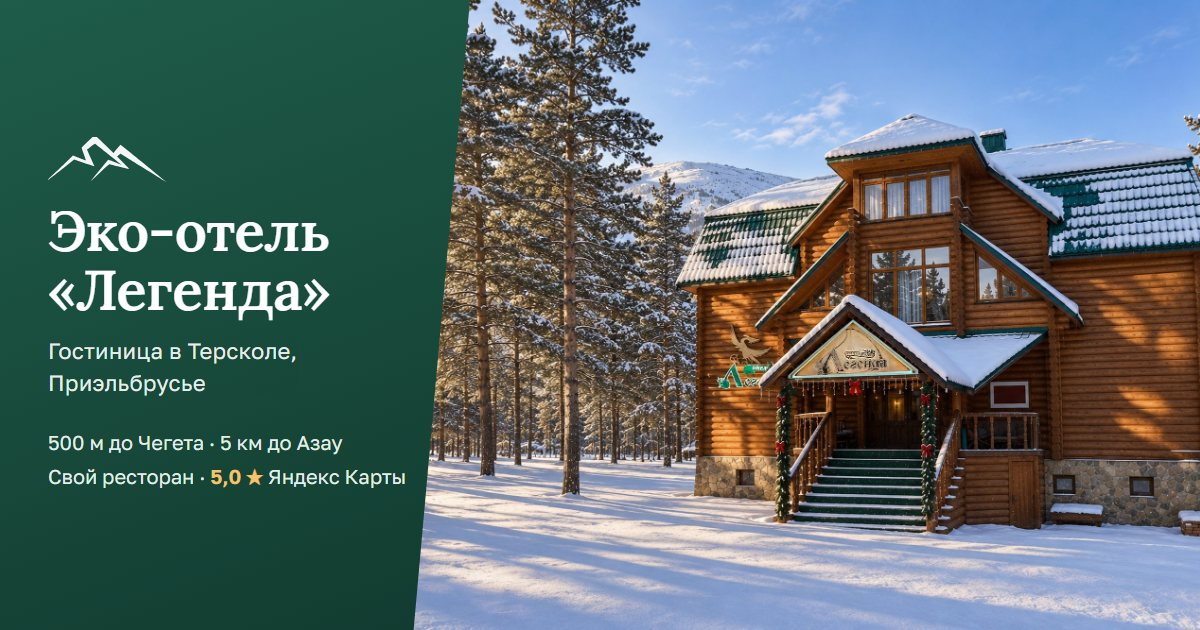
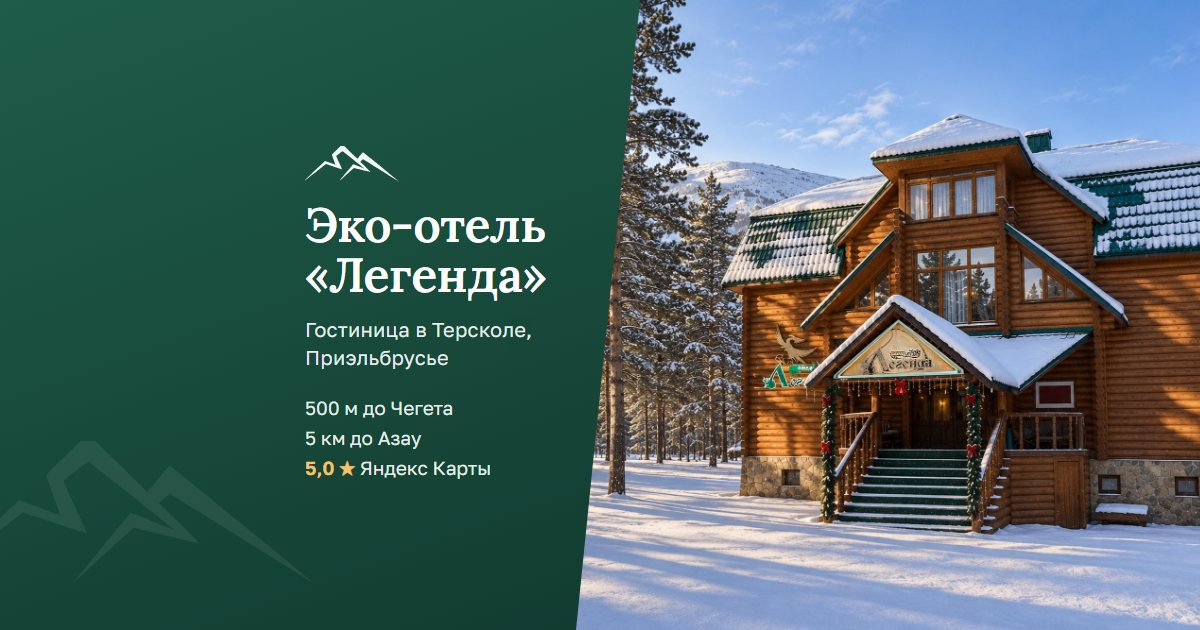
Превью ссылки: название и дом в середине картинки — квадратная миниатюра мессенджера показывает их целиком

diff --git a/tools/og.html b/tools/og.html
@@ -12,14 +12,17 @@ h1{font:600 64px/1.05 Lora;margin:0;letter-spacing:-.5px;text-shadow:0 2px 18px 
 .row{display:flex;gap:10px;justify-content:center;margin-top:20px}
 .row span{padding:9px 18px;border-radius:999px;background:rgba(255,255,255,.16);box-shadow:inset 0 0 0 1px rgba(255,255,255,.28);font-size:21px;font-weight:500;backdrop-filter:blur(8px)}
 .row b{color:#F6C26B}
-.b img.bg{left:380px;width:820px}
-.b .p{position:absolute;left:0;top:0;bottom:0;width:470px;background:linear-gradient(160deg,#1F5C4A,#123B30);padding:56px 48px;display:flex;flex-direction:column;justify-content:center;clip-path:polygon(0 0,100% 0,88% 100%,0 100%)}
-.b .mk{color:#fff;opacity:.95;margin-bottom:18px}
-.b h1{font-size:56px;text-shadow:none}
-.b .k{margin:16px 0 0;font-size:22px;line-height:1.45;opacity:.9}
-.b .li{margin-top:26px;font-size:20px;line-height:1.7;color:#E4EFE9}
+/* в мессенджерах при наборе сообщения видна только середина (квадрат 630×630, x 285–915) — текст и дом укладываются в неё */
+.b img.bg{left:540px;width:660px;object-position:62% 60%}
+.b .p{position:absolute;left:0;top:0;bottom:0;width:640px;background:linear-gradient(160deg,#1F5C4A,#123B30);clip-path:polygon(0 0,100% 0,90% 100%,0 100%)}
+.b .wm{position:absolute;left:-60px;bottom:40px;width:380px;color:#fff;opacity:.07}
+.b .tx{position:absolute;left:305px;top:0;bottom:0;width:260px;display:flex;flex-direction:column;justify-content:center}
+.b .mk{color:#fff;opacity:.95;margin-bottom:16px}
+.b h1{font-size:48px;text-shadow:none}
+.b .k{margin:14px 0 0;font-size:20px;line-height:1.4;opacity:.9}
+.b .li{margin-top:22px;font-size:19px;line-height:1.6;color:#E4EFE9}
 .b .li b{color:#F6C26B;font-weight:600}
 </style></head><body>
-<div class="c b" id="B"><img class="bg" src="../src/facade.jpg"><div class="p"><svg class="mk" width="120" viewBox="229 128.3 474.8 185.7" aria-hidden="true"><g transform="translate(0,698) scale(0.1,-0.1)"><path fill="currentColor" d="M3875 5529 c-143 -138 -259 -256 -257 -262 2 -7 41 -119 88 -250 47 -131 84 -241 81 -243 -2 -3 -118 38 -257 91 l-252 95 -316 -303 c-174 -166 -414 -394 -533 -507 -119 -113 -217 -208 -218 -213 -1 -4 61 41 137 101 75 59 326 256 557 437 l419 328 399 -132 c219 -73 400 -131 403 -129 2 3 -63 150 -146 328 -82 177 -148 326 -145 330 2 4 72 60 154 124 97 75 155 115 163 110 33 -20 1058 -837 1055 -841 -3 -2 -121 44 -263 102 -142 58 -263 104 -269 101 -7 -2 -140 -161 -297 -353 -157 -191 -317 -387 -357 -435 -40 -49 -70 -88 -68 -88 3 0 172 157 378 349 205 192 377 347 383 345 32 -10 799 -194 809 -193 7 0 -103 112 -243 250 l-255 250 65 60 c36 32 70 57 77 55 6 -3 407 -252 890 -554 959 -599 915 -572 893 -550 -8 9 -226 188 -485 398 -258 210 -656 534 -883 719 -227 185 -417 337 -421 339 -4 1 -57 -57 -116 -130 -60 -73 -121 -148 -136 -165 l-28 -33 -366 358 c-201 196 -369 358 -373 359 -4 1 -124 -111 -267 -248z"/></g></svg><h1>Эко-отель<br>«Легенда»</h1><p class="k">Гостиница в Терсколе,<br>Приэльбрусье</p>
-<div class="li">500 м до Чегета · 5 км до Азау<br>Свой ресторан · <b>5,0 ★</b> Яндекс Карты</div></div></div>
+<div class="c b" id="B"><img class="bg" src="../src/facade.jpg"><div class="p"><svg class="wm" viewBox="229 128.3 474.8 185.7" aria-hidden="true"><g transform="translate(0,698) scale(0.1,-0.1)"><path fill="currentColor" d="M3875 5529 c-143 -138 -259 -256 -257 -262 2 -7 41 -119 88 -250 47 -131 84 -241 81 -243 -2 -3 -118 38 -257 91 l-252 95 -316 -303 c-174 -166 -414 -394 -533 -507 -119 -113 -217 -208 -218 -213 -1 -4 61 41 137 101 75 59 326 256 557 437 l419 328 399 -132 c219 -73 400 -131 403 -129 2 3 -63 150 -146 328 -82 177 -148 326 -145 330 2 4 72 60 154 124 97 75 155 115 163 110 33 -20 1058 -837 1055 -841 -3 -2 -121 44 -263 102 -142 58 -263 104 -269 101 -7 -2 -140 -161 -297 -353 -157 -191 -317 -387 -357 -435 -40 -49 -70 -88 -68 -88 3 0 172 157 378 349 205 192 377 347 383 345 32 -10 799 -194 809 -193 7 0 -103 112 -243 250 l-255 250 65 60 c36 32 70 57 77 55 6 -3 407 -252 890 -554 959 -599 915 -572 893 -550 -8 9 -226 188 -485 398 -258 210 -656 534 -883 719 -227 185 -417 337 -421 339 -4 1 -57 -57 -116 -130 -60 -73 -121 -148 -136 -165 l-28 -33 -366 358 c-201 196 -369 358 -373 359 -4 1 -124 -111 -267 -248z"/></g></svg><div class="tx"><svg class="mk" width="96" viewBox="229 128.3 474.8 185.7" aria-hidden="true"><g transform="translate(0,698) scale(0.1,-0.1)"><path fill="currentColor" d="M3875 5529 c-143 -138 -259 -256 -257 -262 2 -7 41 -119 88 -250 47 -131 84 -241 81 -243 -2 -3 -118 38 -257 91 l-252 95 -316 -303 c-174 -166 -414 -394 -533 -507 -119 -113 -217 -208 -218 -213 -1 -4 61 41 137 101 75 59 326 256 557 437 l419 328 399 -132 c219 -73 400 -131 403 -129 2 3 -63 150 -146 328 -82 177 -148 326 -145 330 2 4 72 60 154 124 97 75 155 115 163 110 33 -20 1058 -837 1055 -841 -3 -2 -121 44 -263 102 -142 58 -263 104 -269 101 -7 -2 -140 -161 -297 -353 -157 -191 -317 -387 -357 -435 -40 -49 -70 -88 -68 -88 3 0 172 157 378 349 205 192 377 347 383 345 32 -10 799 -194 809 -193 7 0 -103 112 -243 250 l-255 250 65 60 c36 32 70 57 77 55 6 -3 407 -252 890 -554 959 -599 915 -572 893 -550 -8 9 -226 188 -485 398 -258 210 -656 534 -883 719 -227 185 -417 337 -421 339 -4 1 -57 -57 -116 -130 -60 -73 -121 -148 -136 -165 l-28 -33 -366 358 c-201 196 -369 358 -373 359 -4 1 -124 -111 -267 -248z"/></g></svg><h1>Эко-отель<br>«Легенда»</h1><p class="k">Гостиница в Терсколе, Приэльбрусье</p>
+<div class="li">500 м до Чегета<br>5 км до Азау<br><b>5,0 ★</b> Яндекс Карты</div></div></div></div>
 </body></html>

diff --git a/CLAUDE.md b/CLAUDE.md
@@ -75,7 +75,7 @@
 - План, чек-лист запуска и вопросы к владельцу — `docs/SEO.md`. Держать его актуальным.
 - Разметка JSON-LD (тип Hotel) — в конце `src/index.html`. Номера в ней дублируют массив `rooms` — менять вместе. Рейтинг/отзывы в разметку не добавлять.
 - Заголовок страницы, описание, canonical, картинка для соцсетей — в `<head>` `src/index.html`.
-- Картинка для превью ссылки (`src/static/img/og.jpg`, 1200×630, выбрана владельцем 05.11.2026: зелёная панель с названием слева, фото фасада справа) собирается из `tools/og.html` командой `node tools/og.js`.
+- Картинка для превью ссылки (`src/static/img/og.jpg`, 1200×630, выбрана владельцем 05.11.2026: зелёная панель с названием слева, фото фасада справа; текст и дом — в середине, т. к. при наборе сообщения мессенджер показывает квадрат из центра) собирается из `tools/og.html` командой `node tools/og.js`.
 - H1 начинается со строки `.h1k` «Гостиница в Терсколе · Приэльбрусье» — ключевые слова, не убирать при правках дизайна. «Эко-отель» на первом экране только в шапке (владелец: не повторять трижды). Расстояния стоят прямо в HTML (не только скриптом).
 - В `.htaccess` (генерирует `build.py`) — переадресации старых адресов с Тильды (`/new`, `page59460067.html`, `page59652773.html`) на главную: их знают поисковики, не убирать.
 
